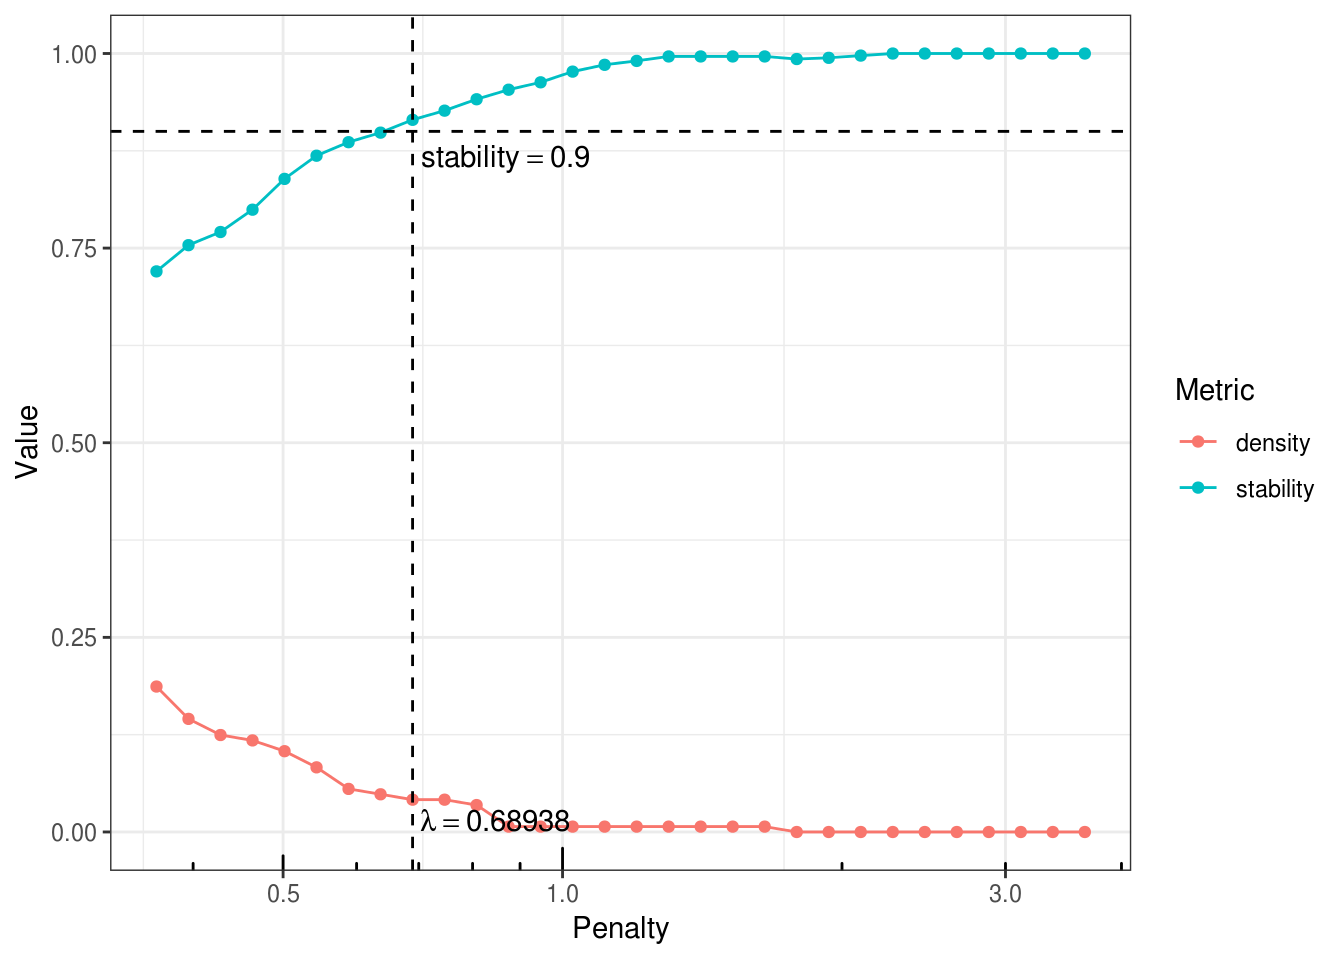
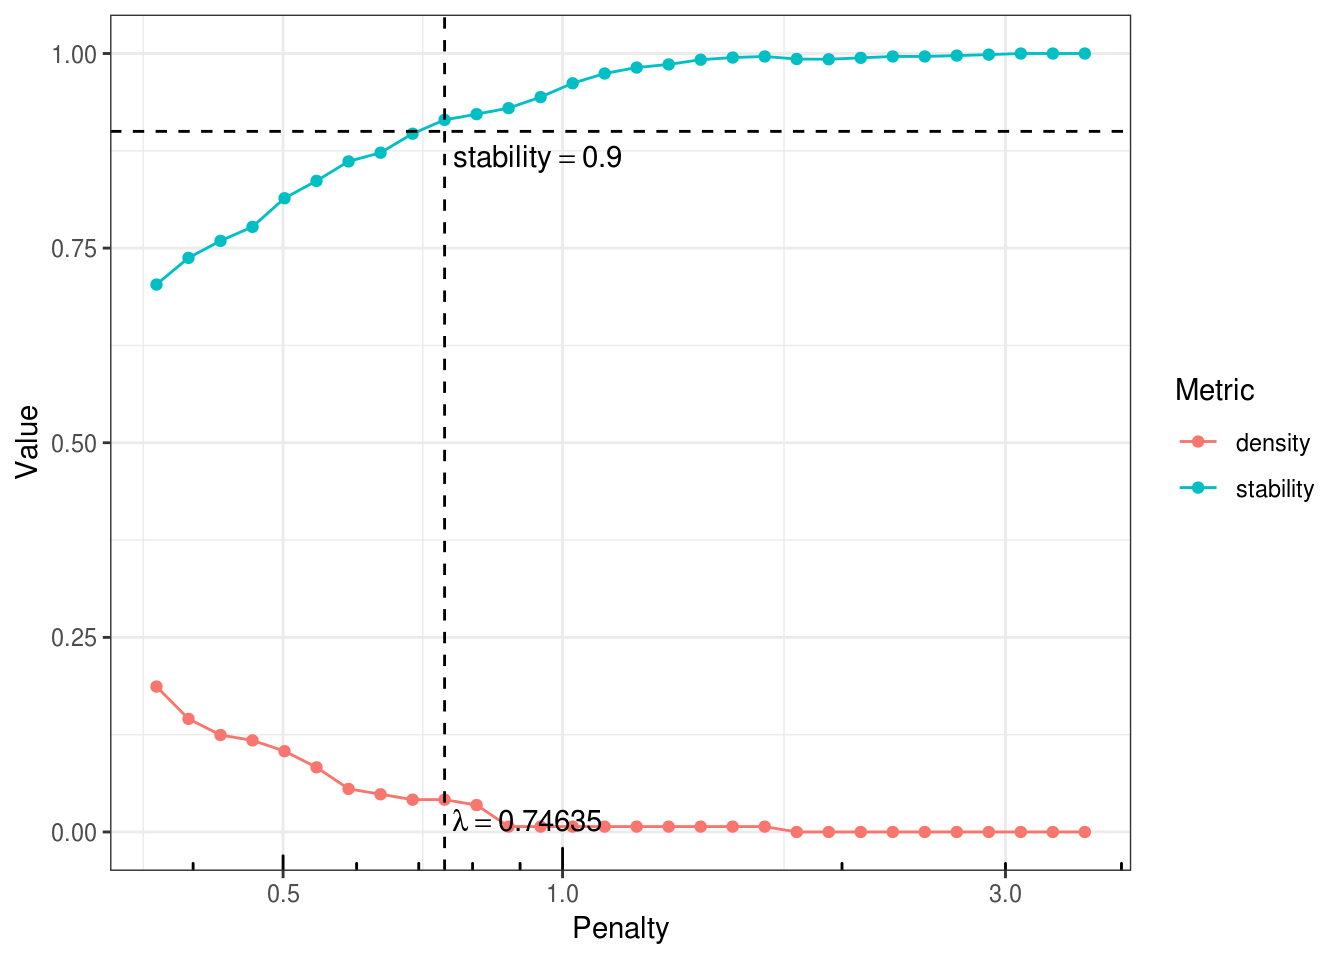
Deploy jchiquet/PLNmodels to github.com/jchiquet/PLNmodels.git:gh-pages

diff --git a/articles/PLNnetwork.html b/articles/PLNnetwork.html
@@ -432,12 +432,12 @@
 </h3>
 <p>The variables <code>model_BIC</code>, <code>model_StARS</code> and <code>model_pen</code> are other <code>R6Class</code> objects with class <code>PLNnetworkfit</code>. They all inherits from the class <code>PLNfit</code> and thus own all its methods, with a couple of specific one, mostly for network vizualization purposes. Most fields and methods are recalled when such an object is printed:</p>
 <div class="sourceCode" id="cb16"><pre class="sourceCode r"><code class="sourceCode r"><a class="sourceLine" id="cb16-1" data-line-number="1">model_StARS</a></code></pre></div>
-<pre><code>## Poisson Lognormal with sparse inverse covariance (penalty = 0.689)
+<pre><code>## Poisson Lognormal with sparse inverse covariance (penalty = 0.746)
 ## ==================================================================
-##  nb_param    loglik       BIC       ICL R_squared n_edges     EBIC
-##        23 -1176.952 -1221.708 -2508.402     0.964       6 -1231.07
+##  nb_param    loglik       BIC       ICL R_squared n_edges      EBIC
+##        23 -1179.478 -1224.234 -2510.929     0.964       6 -1233.596
 ##  pen_loglik density
-##   -1180.199   0.042
+##   -1182.887   0.042
 ## ==================================================================
 ## * Useful fields
 ##     $model_par, $latent, $var_par, $optim_par
@@ -451,11 +451,11 @@
 <p>The <code>plot</code> method provides a quick representation of the inferred network, with various options (either as a matrix, a graph, and always send back de plotted object invisibly if users needs to perform additional analyses).</p>
 <div class="sourceCode" id="cb18"><pre class="sourceCode r"><code class="sourceCode r"><a class="sourceLine" id="cb18-1" data-line-number="1">my_graph &lt;-<span class="st"> </span><span class="kw"><a href="https://www.rdocumentation.org/packages/graphics/topics/plot">plot</a></span>(model_StARS, <span class="dt">plot =</span> <span class="ot">FALSE</span>)</a>
 <a class="sourceLine" id="cb18-2" data-line-number="2">my_graph</a></code></pre></div>
-<pre><code>## IGRAPH b42cf80 UNW- 17 6 -- 
+<pre><code>## IGRAPH dcd6649 UNW- 17 6 -- 
 ## + attr: name (v/c), label (v/c), label.cex (v/n), size (v/n),
 ## | label.color (v/c), frame.color (v/l), weight (e/n), color (e/c),
 ## | width (e/n)
-## + edges from b42cf80 (vertex names):
+## + edges from dcd6649 (vertex names):
 ## [1] Hym--Hsp Aga--Hsp Set--All Set--Hsp Han--Sta Hfo--Hsp</code></pre>
 <div class="sourceCode" id="cb20"><pre class="sourceCode r"><code class="sourceCode r"><a class="sourceLine" id="cb20-1" data-line-number="1"><span class="kw"><a href="https://www.rdocumentation.org/packages/graphics/topics/plot">plot</a></span>(model_StARS)</a></code></pre></div>
 <p><img src="PLNnetwork_files/figure-html/stars_network-1.png" width="672"></p>
